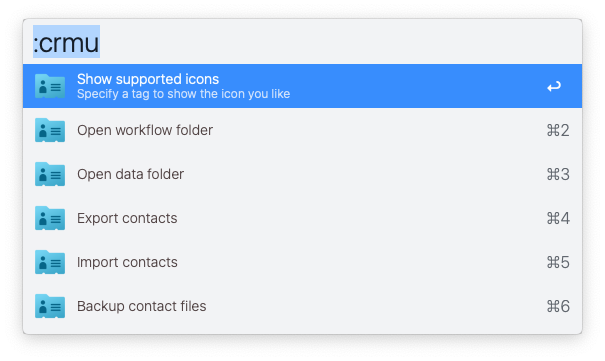
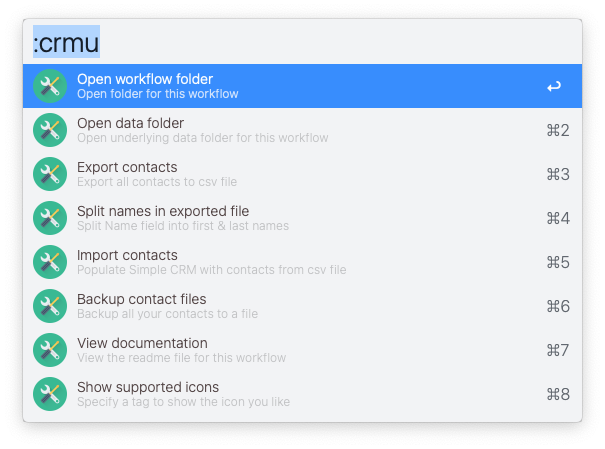
Added utility to split names in export file. Very cool.

diff --git a/scripts/split_names.py b/scripts/split_names.py
@@ -1,0 +1,45 @@
+import os
+import pandas as pd
+import subprocess
+import sys
+
+title = os.environ["alfred_workflow_name"]
+
+# ====== SETTINGS ======
+INPUT_FILE = os.environ["export_path"]
+OUTPUT_FILE = os.environ["export_path"] + "_split_names.csv"
+NAME_COLUMN = "Name"
+FIRSTNAME_COLUMN = "First Name"
+LASTNAME_COLUMN = "Last Name"
+SPLIT_LIMIT = 1  # How many splits (1 = split into 2 parts)
+# ======================
+
+# Check if input file exists
+if not os.path.isfile(INPUT_FILE):
+    subprocess.run([
+        "osascript", "-e",
+        f'display notification "Input file not found: {INPUT_FILE}" with title "{title}"'
+    ])
+    sys.exit(1)
+
+# Load CSV
+df = pd.read_csv(INPUT_FILE)
+
+# Split name column
+split_names = df[NAME_COLUMN].str.split(' ', n=SPLIT_LIMIT, expand=True)
+
+# Drop original name column
+df = df.drop(columns=[NAME_COLUMN])
+
+# Insert new columns at start
+df.insert(0, FIRSTNAME_COLUMN, split_names[0])
+df.insert(1, LASTNAME_COLUMN, split_names[1])
+
+# Save CSV
+df.to_csv(OUTPUT_FILE, index=False)
+
+# Show success notification
+subprocess.run([
+    "osascript", "-e",
+    f'display notification "File saved as {OUTPUT_FILE}" with title "{title}"'
+])

diff --git a/README.md b/README.md
@@ -192,7 +192,7 @@ All searches are case-insensitive.
 
 Some useful tools to manage your contact files. And to peek into your data and workflow folders.
 
-![](assets/crmu.png)    
+![](assets/crmu.png)     
 
 
 
